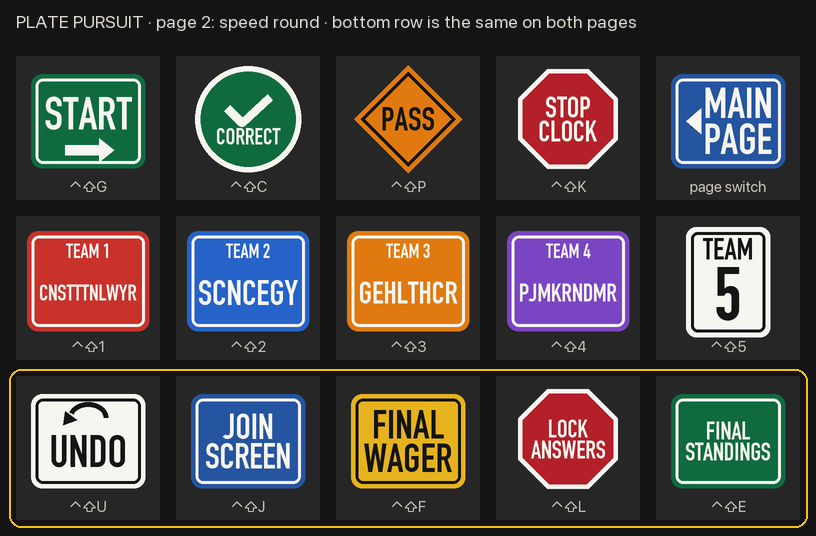
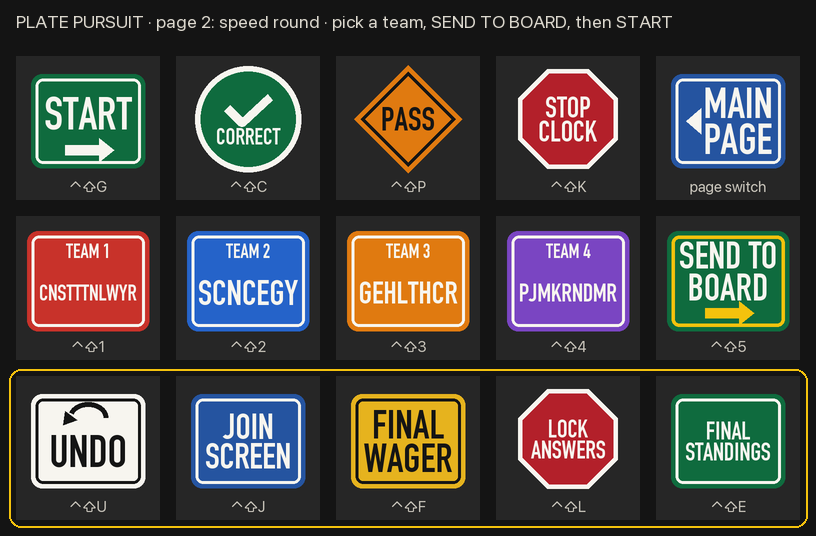
Speed round deck page: team buttons pick, SEND TO BOARD (Ctrl+Shift+5) puts it on screen

Changed region(s): [[0.7966, 0.4179, 0.9804, 0.6567], [0.3983, 0.0299, 0.8272, 0.0597]]

diff --git a/deck/index.html b/deck/index.html
@@ -1,6 +1,6 @@
 <!doctype html>
 <html lang="en"><head><meta charset="utf-8"><meta name="viewport" content="width=device-width, initial-scale=1">
-<title>Plate Pursuit · Stream deck</title><link rel="stylesheet" href="../style.css?v=28">
+<title>Plate Pursuit · Stream deck</title><link rel="stylesheet" href="../style.css?v=29">
 <style>
 body { background: var(--asphalt); color: #f2efe6; margin: 0; font-family: var(--font); }
 main { max-width: 1000px; margin: 0 auto; padding: 24px 16px 48px; }
@@ -19,10 +19,10 @@ kbd { font: 800 13px var(--font); color: #fff; }
 <p>For the VSD Craft deck. Every button sends <b>Ctrl + Shift + a letter or number</b>, which works when the control page <i>or</i> the projector window is in front (same computer). The <b>bottom row is the same on both pages</b> (outlined in yellow), and the page-switch button is in the top-right corner of both.</p>
 <h2>Page 1: main</h2><div class="grid"><figure class=""><img src="go.png" alt="" width="144" height="144"><figcaption><kbd>Ctrl+Shift+G</kbd><span>The next step, whatever it is: show the plate and start the clock, reopen buzzers, show the next answer piece, show the next team's final answer, or go to the next plate.</span></figcaption></figure><figure class=""><img src="correct.png" alt="" width="144" height="144"><figcaption><kbd>Ctrl+Shift+C</kbd><span>Right answer (in the speed round: counts the plate and brings up the next).</span></figcaption></figure><figure class=""><img src="wrong.png" alt="" width="144" height="144"><figcaption><kbd>Ctrl+Shift+X</kbd><span>The team that buzzed is wrong.</span></figcaption></figure><figure class=""><img src="reopen.png" alt="" width="144" height="144"><figcaption><kbd>Ctrl+Shift+O</kbd><span>Open buzzers again after a wrong answer.</span></figcaption></figure><figure class=""><img src="speedpage.png" alt="" width="144" height="144"><figcaption><kbd>Page switch</kbd><span>Opens page 2, the speed round. (VSD Craft page switch, not a key.)</span></figcaption></figure><figure class=""><img src="next.png" alt="" width="144" height="144"><figcaption><kbd>Ctrl+Shift+N</kbd><span>Skip straight to the next plate.</span></figcaption></figure><figure class=""><img src="reveal.png" alt="" width="144" height="144"><figcaption><kbd>Ctrl+Shift+R</kbd><span>Show the answer with no points.</span></figcaption></figure><figure class=""><img src="whole.png" alt="" width="144" height="144"><figcaption><kbd>Ctrl+Shift+W</kbd><span>Show the whole answer at once instead of piece by piece.</span></figcaption></figure><figure class=""><img src="double.png" alt="" width="144" height="144"><figcaption><kbd>Ctrl+Shift+D</kbd><span>Double points on or off for the plate that's up.</span></figcaption></figure><figure class=""><img src="tie.png" alt="" width="144" height="144"><figcaption><kbd>Ctrl+Shift+T</kbd><span>Tie-breaker plate (when teams are tied for first).</span></figcaption></figure><figure class="shared"><img src="undo.png" alt="" width="144" height="144"><figcaption><kbd>Ctrl+Shift+U</kbd><span>Take back the last action.</span></figcaption></figure><figure class="shared"><img src="join.png" alt="" width="144" height="144"><figcaption><kbd>Ctrl+Shift+J</kbd><span>Join screen (QR code) on the projector.</span></figcaption></figure><figure class="shared"><img src="final.png" alt="" width="144" height="144"><figcaption><kbd>Ctrl+Shift+F</kbd><span>Start the final wager plate.</span></figcaption></figure><figure class="shared"><img src="lock.png" alt="" width="144" height="144"><figcaption><kbd>Ctrl+Shift+L</kbd><span>Final plate: stop answers now.</span></figcaption></figure><figure class="shared"><img src="standings.png" alt="" width="144" height="144"><figcaption><kbd>Ctrl+Shift+E</kbd><span>Show the final standings.</span></figcaption></figure></div>
 <h2>Page 2: speed round</h2>
-<p>Pick the team, press START, then CORRECT or PASS for each plate. MAIN PAGE goes back.</p><div class="grid"><figure class=""><img src="start.png" alt="" width="144" height="144"><figcaption><kbd>Ctrl+Shift+G</kbd><span>Start the 60 seconds (after picking the team).</span></figcaption></figure><figure class=""><img src="correct.png" alt="" width="144" height="144"><figcaption><kbd>Ctrl+Shift+C</kbd><span>Right answer (in the speed round: counts the plate and brings up the next).</span></figcaption></figure><figure class=""><img src="pass.png" alt="" width="144" height="144"><figcaption><kbd>Ctrl+Shift+P</kbd><span>Skip this plate.</span></figcaption></figure><figure class=""><img src="stopclock.png" alt="" width="144" height="144"><figcaption><kbd>Ctrl+Shift+K</kbd><span>End the speed round early.</span></figcaption></figure><figure class=""><img src="back.png" alt="" width="144" height="144"><figcaption><kbd>Page switch</kbd><span>Back to page 1. (VSD Craft page switch, not a key.)</span></figcaption></figure><figure class=""><img src="team1.png?v=2" alt="" width="144" height="144"><figcaption><kbd>Ctrl+Shift+1</kbd><span>Speed round for CNSTTTNLWYR (team 1, the 1st team in the control page's Teams list).</span></figcaption></figure><figure class=""><img src="team2.png?v=2" alt="" width="144" height="144"><figcaption><kbd>Ctrl+Shift+2</kbd><span>Speed round for SCNCEGY (team 2, the 2nd team in the control page's Teams list).</span></figcaption></figure><figure class=""><img src="team3.png?v=2" alt="" width="144" height="144"><figcaption><kbd>Ctrl+Shift+3</kbd><span>Speed round for GEHLTHCR (team 3, the 3rd team in the control page's Teams list).</span></figcaption></figure><figure class=""><img src="team4.png?v=2" alt="" width="144" height="144"><figcaption><kbd>Ctrl+Shift+4</kbd><span>Speed round for PJMKRNDMR (team 4, the 4th team in the control page's Teams list).</span></figcaption></figure><figure class=""><img src="team5.png?v=2" alt="" width="144" height="144"><figcaption><kbd>Ctrl+Shift+5</kbd><span>Set up the speed round for team 5: the 5th team in the control page's Teams list.</span></figcaption></figure><figure class="shared"><img src="undo.png" alt="" width="144" height="144"><figcaption><kbd>Ctrl+Shift+U</kbd><span>Take back the last action.</span></figcaption></figure><figure class="shared"><img src="join.png" alt="" width="144" height="144"><figcaption><kbd>Ctrl+Shift+J</kbd><span>Join screen (QR code) on the projector.</span></figcaption></figure><figure class="shared"><img src="final.png" alt="" width="144" height="144"><figcaption><kbd>Ctrl+Shift+F</kbd><span>Start the final wager plate.</span></figcaption></figure><figure class="shared"><img src="lock.png" alt="" width="144" height="144"><figcaption><kbd>Ctrl+Shift+L</kbd><span>Final plate: stop answers now.</span></figcaption></figure><figure class="shared"><img src="standings.png" alt="" width="144" height="144"><figcaption><kbd>Ctrl+Shift+E</kbd><span>Show the final standings.</span></figcaption></figure></div>
+<p>Tap a team to pick it (nothing shows yet), then <b>SEND TO BOARD</b> to put that team's speed round on the screen, then <b>START</b>. CORRECT or PASS for each plate. MAIN PAGE goes back.</p><div class="grid"><figure class=""><img src="start.png" alt="" width="144" height="144"><figcaption><kbd>Ctrl+Shift+G</kbd><span>Start the 60 seconds (after picking the team).</span></figcaption></figure><figure class=""><img src="correct.png" alt="" width="144" height="144"><figcaption><kbd>Ctrl+Shift+C</kbd><span>Right answer (in the speed round: counts the plate and brings up the next).</span></figcaption></figure><figure class=""><img src="pass.png" alt="" width="144" height="144"><figcaption><kbd>Ctrl+Shift+P</kbd><span>Skip this plate.</span></figcaption></figure><figure class=""><img src="stopclock.png" alt="" width="144" height="144"><figcaption><kbd>Ctrl+Shift+K</kbd><span>End the speed round early.</span></figcaption></figure><figure class=""><img src="back.png" alt="" width="144" height="144"><figcaption><kbd>Page switch</kbd><span>Back to page 1. (VSD Craft page switch, not a key.)</span></figcaption></figure><figure class=""><img src="team1.png?v=2" alt="" width="144" height="144"><figcaption><kbd>Ctrl+Shift+1</kbd><span>Pick CNSTTTNLWYR for the speed round (team 1 in the Teams list). Nothing shows on the screen yet.</span></figcaption></figure><figure class=""><img src="team2.png?v=2" alt="" width="144" height="144"><figcaption><kbd>Ctrl+Shift+2</kbd><span>Pick SCNCEGY for the speed round (team 2 in the Teams list). Nothing shows on the screen yet.</span></figcaption></figure><figure class=""><img src="team3.png?v=2" alt="" width="144" height="144"><figcaption><kbd>Ctrl+Shift+3</kbd><span>Pick GEHLTHCR for the speed round (team 3 in the Teams list). Nothing shows on the screen yet.</span></figcaption></figure><figure class=""><img src="team4.png?v=2" alt="" width="144" height="144"><figcaption><kbd>Ctrl+Shift+4</kbd><span>Pick PJMKRNDMR for the speed round (team 4 in the Teams list). Nothing shows on the screen yet.</span></figcaption></figure><figure class=""><img src="send.png" alt="" width="144" height="144"><figcaption><kbd>Ctrl+Shift+5</kbd><span>Send the picked team's speed round to the board (the projector shows "get ready"). Then press START.</span></figcaption></figure><figure class="shared"><img src="undo.png" alt="" width="144" height="144"><figcaption><kbd>Ctrl+Shift+U</kbd><span>Take back the last action.</span></figcaption></figure><figure class="shared"><img src="join.png" alt="" width="144" height="144"><figcaption><kbd>Ctrl+Shift+J</kbd><span>Join screen (QR code) on the projector.</span></figcaption></figure><figure class="shared"><img src="final.png" alt="" width="144" height="144"><figcaption><kbd>Ctrl+Shift+F</kbd><span>Start the final wager plate.</span></figcaption></figure><figure class="shared"><img src="lock.png" alt="" width="144" height="144"><figcaption><kbd>Ctrl+Shift+L</kbd><span>Final plate: stop answers now.</span></figcaption></figure><figure class="shared"><img src="standings.png" alt="" width="144" height="144"><figcaption><kbd>Ctrl+Shift+E</kbd><span>Show the final standings.</span></figcaption></figure></div>
 <h2>Download</h2>
 <p><a href="layout.png" download>layout.png</a> (page 1) · <a href="layout-speed.png" download>layout-speed.png</a> (page 2)</p>
-<p>Icons: <a href="back.png" download>back.png</a> · <a href="correct.png" download>correct.png</a> · <a href="double.png" download>double.png</a> · <a href="final.png" download>final.png</a> · <a href="go.png" download>go.png</a> · <a href="join.png" download>join.png</a> · <a href="lock.png" download>lock.png</a> · <a href="next.png" download>next.png</a> · <a href="pass.png" download>pass.png</a> · <a href="reopen.png" download>reopen.png</a> · <a href="reveal.png" download>reveal.png</a> · <a href="speedpage.png" download>speedpage.png</a> · <a href="standings.png" download>standings.png</a> · <a href="start.png" download>start.png</a> · <a href="stopclock.png" download>stopclock.png</a> · <a href="team1.png" download>team1.png</a> · <a href="team2.png" download>team2.png</a> · <a href="team3.png" download>team3.png</a> · <a href="team4.png" download>team4.png</a> · <a href="team5.png" download>team5.png</a> · <a href="tie.png" download>tie.png</a> · <a href="undo.png" download>undo.png</a> · <a href="whole.png" download>whole.png</a> · <a href="wrong.png" download>wrong.png</a></p>
+<p>Icons: <a href="back.png" download>back.png</a> · <a href="correct.png" download>correct.png</a> · <a href="double.png" download>double.png</a> · <a href="final.png" download>final.png</a> · <a href="go.png" download>go.png</a> · <a href="join.png" download>join.png</a> · <a href="lock.png" download>lock.png</a> · <a href="next.png" download>next.png</a> · <a href="pass.png" download>pass.png</a> · <a href="reopen.png" download>reopen.png</a> · <a href="reveal.png" download>reveal.png</a> · <a href="speedpage.png" download>speedpage.png</a> · <a href="standings.png" download>standings.png</a> · <a href="start.png" download>start.png</a> · <a href="stopclock.png" download>stopclock.png</a> · <a href="team1.png" download>team1.png</a> · <a href="team2.png" download>team2.png</a> · <a href="team3.png" download>team3.png</a> · <a href="team4.png" download>team4.png</a> · <a href="send.png" download>send.png</a> · <a href="tie.png" download>tie.png</a> · <a href="undo.png" download>undo.png</a> · <a href="whole.png" download>whole.png</a> · <a href="wrong.png" download>wrong.png</a></p>
 <h2>Set it up in VSD Craft</h2>
 <ol>
 <li>For each key button: drag the <b>Hotkey</b> action onto it (System group), click the hotkey box and press the combination shown, e.g. <b>Ctrl + Shift + G</b>. On a Mac that's the <b>Control</b> key, not Command.</li>

diff --git a/host.html b/host.html
@@ -4,7 +4,7 @@
 <meta charset="utf-8">
 <meta name="viewport" content="width=device-width, initial-scale=1">
 <title>Plate Pursuit · Host</title>
-<link rel="stylesheet" href="style.css?v=28">
+<link rel="stylesheet" href="style.css?v=29">
 </head>
 <body class="host-page">
 <div class="host">
@@ -92,17 +92,18 @@
       <div><kbd>⌃⇧L</kbd> lock final answers</div>
       <div><kbd>⌃⇧T</kbd> tie-breaker plate</div>
       <div><kbd>⌃⇧E</kbd> final standings</div>
-      <div><kbd>⌃⇧1</kbd>–<kbd>⌃⇧5</kbd> set up the speed round for team 1–5 (order of the Teams list)</div>
+      <div><kbd>⌃⇧1</kbd>–<kbd>⌃⇧4</kbd> pick team 1–4 for the speed round (order of the Teams list)</div>
+      <div><kbd>⌃⇧5</kbd> send the speed round to the board (same as ⌃⇧S)</div>
       <div><kbd>⌃⇧K</kbd> stop the speed-round clock</div>
       <div><kbd>⌃⇧D</kbd> double points on or off for the plate that's up</div></div>
   </div>
 </div>
 
-<script src="mode.js?v=28"></script>
+<script src="mode.js?v=29"></script>
 <script src="https://cdn.jsdelivr.net/npm/mqtt@5.10.1/dist/mqtt.min.js"></script>
-<script src="engine.js?v=28"></script>
-<script src="states.js?v=28"></script>
-<script src="shared.js?v=28"></script>
+<script src="engine.js?v=29"></script>
+<script src="states.js?v=29"></script>
+<script src="shared.js?v=29"></script>
 <script>
 const $ = id => document.getElementById(id);
 const act = PP.act;
@@ -300,14 +301,21 @@ function goStep(s) {   // the one-button "next step"
   if (s.phase === 'revealed' && s.used.length >= s.puzzles.length) return act('final');   // no plates left
   if (['lobby', 'revealed', 'speedover'].includes(s.phase)) return act('next');
 }
+// a short note at the bottom of the control page (team picks from the deck have nothing else to show)
+let toastTimer = null;
+function toast(msg) {
+  let el = document.getElementById('toast');
+  if (!el) { el = document.createElement('div'); el.id = 'toast'; el.className = 'toast'; document.body.appendChild(el); }
+  el.textContent = msg; el.hidden = false; clearTimeout(toastTimer); toastTimer = setTimeout(() => { el.hidden = true; }, 4000);
+}
 function runKey(name) {
   const s = PP.state; if (!s || !name) return;
   if (name === 'go') goStep(s);
   else if (name === 'double') { if (s.cur != null) act('toggleDouble', { index: s.cur }); }   // the plate up now
-  else if (name === 'speed') { if ($('speedTeam').value) act('speedReady', { teamId: $('speedTeam').value }); }
-  else if (/^speed\d$/.test(name)) {   // speed round for team 1–5 (in the order of the Teams list)
-    const t = s.teams[Number(name.slice(5)) - 1]; if (!t) return;
-    $('speedTeam').value = String(t.id); act('speedReady', { teamId: t.id });
+  else if (name === 'speed') { if ($('speedTeam').value) { act('speedReady', { teamId: $('speedTeam').value }); toast(`Speed round for ${teamName(s, Number($('speedTeam').value))} is on the board.`); } }
+  else if (/^pick\d$/.test(name)) {   // pick team 1–4 for the speed round (Teams-list order); nothing shows until it's sent
+    const t = s.teams[Number(name.slice(4)) - 1]; if (!t) return;
+    $('speedTeam').value = String(t.id); toast(`Speed round: ${t.name} picked. Press SEND TO BOARD (⌃⇧5) to put it on the screen.`);
   }
   else act(name);
 }

diff --git a/index.html b/index.html
@@ -1,8 +1,8 @@
 <!doctype html>
 <html lang="en"><head><meta charset="utf-8"><meta name="viewport" content="width=device-width, initial-scale=1">
-<title>Plate Pursuit</title><link rel="stylesheet" href="style.css?v=28"></head>
+<title>Plate Pursuit</title><link rel="stylesheet" href="style.css?v=29"></head>
 <body class="landing-page"><div class="landing"><div>
-<div class="plate-wrap"><script src="mode.js?v=28"></script><script src="shared.js?v=28"></script><script>document.write(plateHTML('PL8 PRST', {bottom:'CRACK THE CODE'}))</script></div>
+<div class="plate-wrap"><script src="mode.js?v=29"></script><script src="shared.js?v=29"></script><script>document.write(plateHTML('PL8 PRST', {bottom:'CRACK THE CODE'}))</script></div>
 <p>Open <b>Host</b> on the laptop, then click <b>Open projector window</b> there and drag it to the big screen. Players scan the QR code on the projector to join on their phones.</p>
 <div class="row"><a class="btn primary" href="host.html">Host</a><a class="btn gold" href="display.html">Projector</a><a class="btn" href="play.html">Phone buzzer</a><a class="btn" href="stage.html">Host script</a><a class="btn" href="pointer.html">Pointer</a></div>
 </div></div></body></html>

diff --git a/shared.js b/shared.js
@@ -278,7 +278,7 @@ function ppShownScore(s, t) { return ppFinShown(s, t.id) ? t.score : (s.fin.base
 // ---- keyboard shortcuts (stream deck): Ctrl+Shift+letter -> what it does
 const PP_KEYS = { KeyG: 'go', KeyC: 'correct', KeyX: 'wrong', KeyO: 'reopen', KeyU: 'undo', KeyN: 'next', KeyR: 'reveal', KeyW: 'stepAll',
   KeyP: 'pass', KeyS: 'speed', KeyJ: 'lobby', KeyF: 'finalStart', KeyL: 'finalLock', KeyT: 'tiebreak', KeyE: 'final',
-  KeyD: 'double', KeyK: 'speedStop', Digit1: 'speed1', Digit2: 'speed2', Digit3: 'speed3', Digit4: 'speed4', Digit5: 'speed5' };   // speed round page
+  KeyD: 'double', KeyK: 'speedStop', Digit1: 'pick1', Digit2: 'pick2', Digit3: 'pick3', Digit4: 'pick4', Digit5: 'speed' };   // speed round page: pick a team, then send it
 function ppKeyName(e) { return e.ctrlKey && e.shiftKey && !e.metaKey && !e.altKey ? PP_KEYS[e.code] || null : null; }
 const _keyChan = typeof BroadcastChannel !== 'undefined' ? new BroadcastChannel('plate-pursuit-keys') : null;
 // projector / crew windows on the same computer: hand shortcut presses to the control page

diff --git a/display.html b/display.html
@@ -4,7 +4,7 @@
 <meta charset="utf-8">
 <meta name="viewport" content="width=device-width, initial-scale=1">
 <title>Plate Pursuit · Projector</title>
-<link rel="stylesheet" href="style.css?v=28">
+<link rel="stylesheet" href="style.css?v=29">
 <script src="https://cdnjs.cloudflare.com/ajax/libs/qrcodejs/1.0.0/qrcode.min.js"></script>
 </head>
 <body class="display-page">
@@ -16,10 +16,10 @@
 <div class="unlock" id="unlock"><div class="sign green">Click to start the projector<small>Turns on sound and goes full screen</small></div></div>
 <div class="conn" id="conn"></div>
 
-<script src="mode.js?v=28"></script>
+<script src="mode.js?v=29"></script>
 <script src="https://cdn.jsdelivr.net/npm/mqtt@5.10.1/dist/mqtt.min.js"></script>
-<script src="states.js?v=28"></script>
-<script src="shared.js?v=28"></script>
+<script src="states.js?v=29"></script>
+<script src="shared.js?v=29"></script>
 <script>
 const $ = id => document.getElementById(id);
 let lastEv = null, lastKey = '', lastPlateKey = '';

diff --git a/pointer.html b/pointer.html
@@ -5,7 +5,7 @@
 <meta name="viewport" content="width=device-width, initial-scale=1, maximum-scale=1">
 <meta name="theme-color" content="#262626">
 <title>Plate Pursuit · Pointer</title>
-<link rel="stylesheet" href="style.css?v=28">
+<link rel="stylesheet" href="style.css?v=29">
 </head>
 <body class="crew-page">
 <div class="pt-wrap" id="app">
@@ -15,10 +15,10 @@
   <ol class="cr-pieces pt-list" id="pieces"></ol>
   <div class="cr-conn" id="conn"></div>
 </div>
-<script src="mode.js?v=28"></script>
+<script src="mode.js?v=29"></script>
 <script src="https://cdn.jsdelivr.net/npm/mqtt@5.10.1/dist/mqtt.min.js"></script>
-<script src="states.js?v=28"></script>
-<script src="shared.js?v=28"></script>
+<script src="states.js?v=29"></script>
+<script src="shared.js?v=29"></script>
 <script>
 const $ = id => document.getElementById(id);
 if (PP.needRoom('POINTER')) throw new Error('waiting for room code');

diff --git a/stage.html b/stage.html
@@ -5,7 +5,7 @@
 <meta name="viewport" content="width=device-width, initial-scale=1">
 <meta name="theme-color" content="#262626">
 <title>Plate Pursuit · Host script</title>
-<link rel="stylesheet" href="style.css?v=28">
+<link rel="stylesheet" href="style.css?v=29">
 </head>
 <body class="crew-page">
 <div class="crew-wrap" id="app">
@@ -18,10 +18,10 @@
   <div class="cr-scores" id="scores"></div>
   <div class="cr-conn" id="conn"></div>
 </div>
-<script src="mode.js?v=28"></script>
+<script src="mode.js?v=29"></script>
 <script src="https://cdn.jsdelivr.net/npm/mqtt@5.10.1/dist/mqtt.min.js"></script>
-<script src="states.js?v=28"></script>
-<script src="shared.js?v=28"></script>
+<script src="states.js?v=29"></script>
+<script src="shared.js?v=29"></script>
 <script>
 const $ = id => document.getElementById(id);
 if (PP.needRoom('HOST SCRIPT')) throw new Error('waiting for room code');

diff --git a/play.html b/play.html
@@ -5,13 +5,13 @@
 <meta name="viewport" content="width=device-width, initial-scale=1, maximum-scale=1, user-scalable=no">
 <meta name="theme-color" content="#0e1726">
 <title>Plate Pursuit · Buzzer</title>
-<link rel="stylesheet" href="style.css?v=28">
+<link rel="stylesheet" href="style.css?v=29">
 </head>
 <body class="phone-page">
 <div class="phone" id="app"></div>
-<script src="mode.js?v=28"></script>
+<script src="mode.js?v=29"></script>
 <script src="https://cdn.jsdelivr.net/npm/mqtt@5.10.1/dist/mqtt.min.js"></script>
-<script src="shared.js?v=28"></script>
+<script src="shared.js?v=29"></script>
 <script>
 const app = document.getElementById('app');
 if (PP.needRoom('JOIN THE GAME')) throw new Error('waiting for room code');

diff --git a/style.css b/style.css
@@ -445,3 +445,7 @@ body.crew-page { background: var(--asphalt); color: #fff; min-height: 100vh; }
 .d-stage { min-height: 0; overflow: hidden; }
 .d-plate { flex: none; max-width: 100%; }
 .d-stage > * { flex-shrink: 0; }
+
+.toast { position: fixed; left: 50%; bottom: 18px; transform: translateX(-50%); background: var(--ink, #222); color: #fff; padding: 10px 16px 8px; border-radius: 8px;
+  font: 700 15px/1.3 var(--font); box-shadow: 0 6px 20px rgba(0,0,0,.3); z-index: 50; max-width: 90vw; }
+.toast[hidden] { display: none; }
